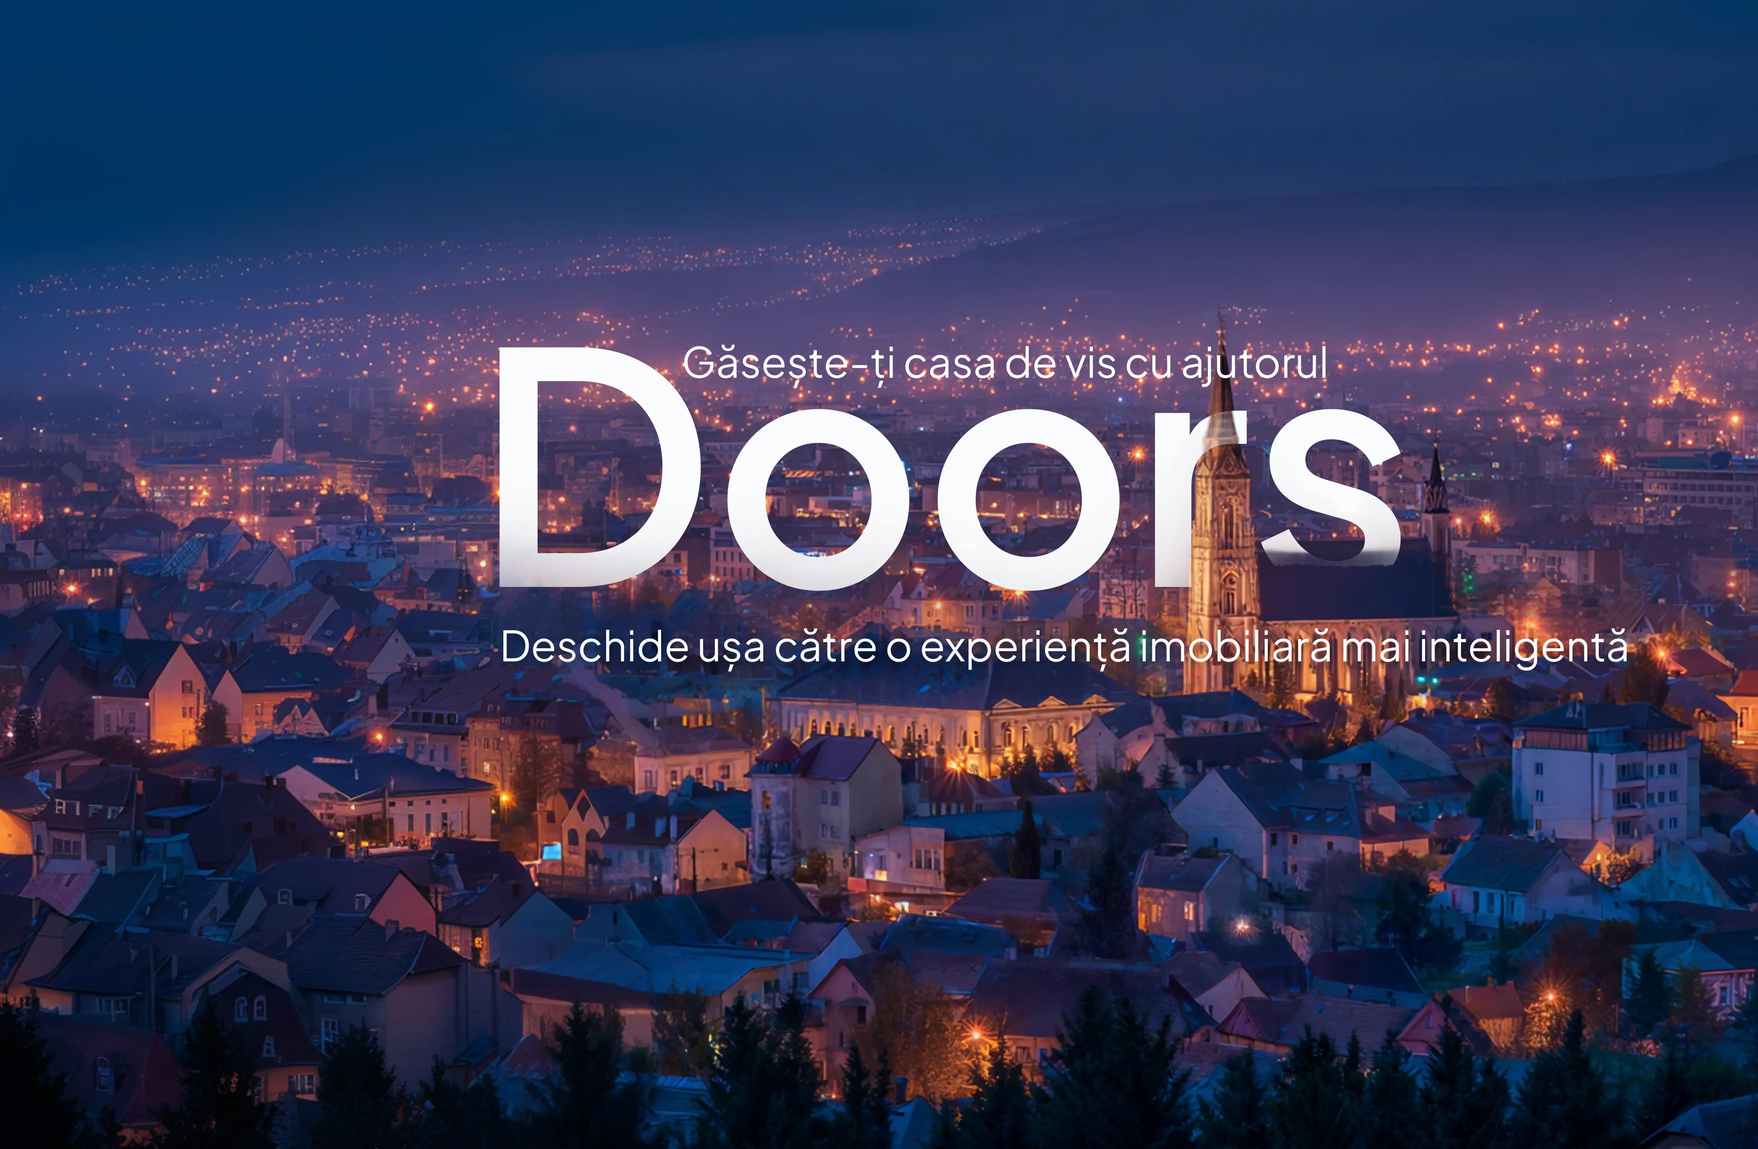
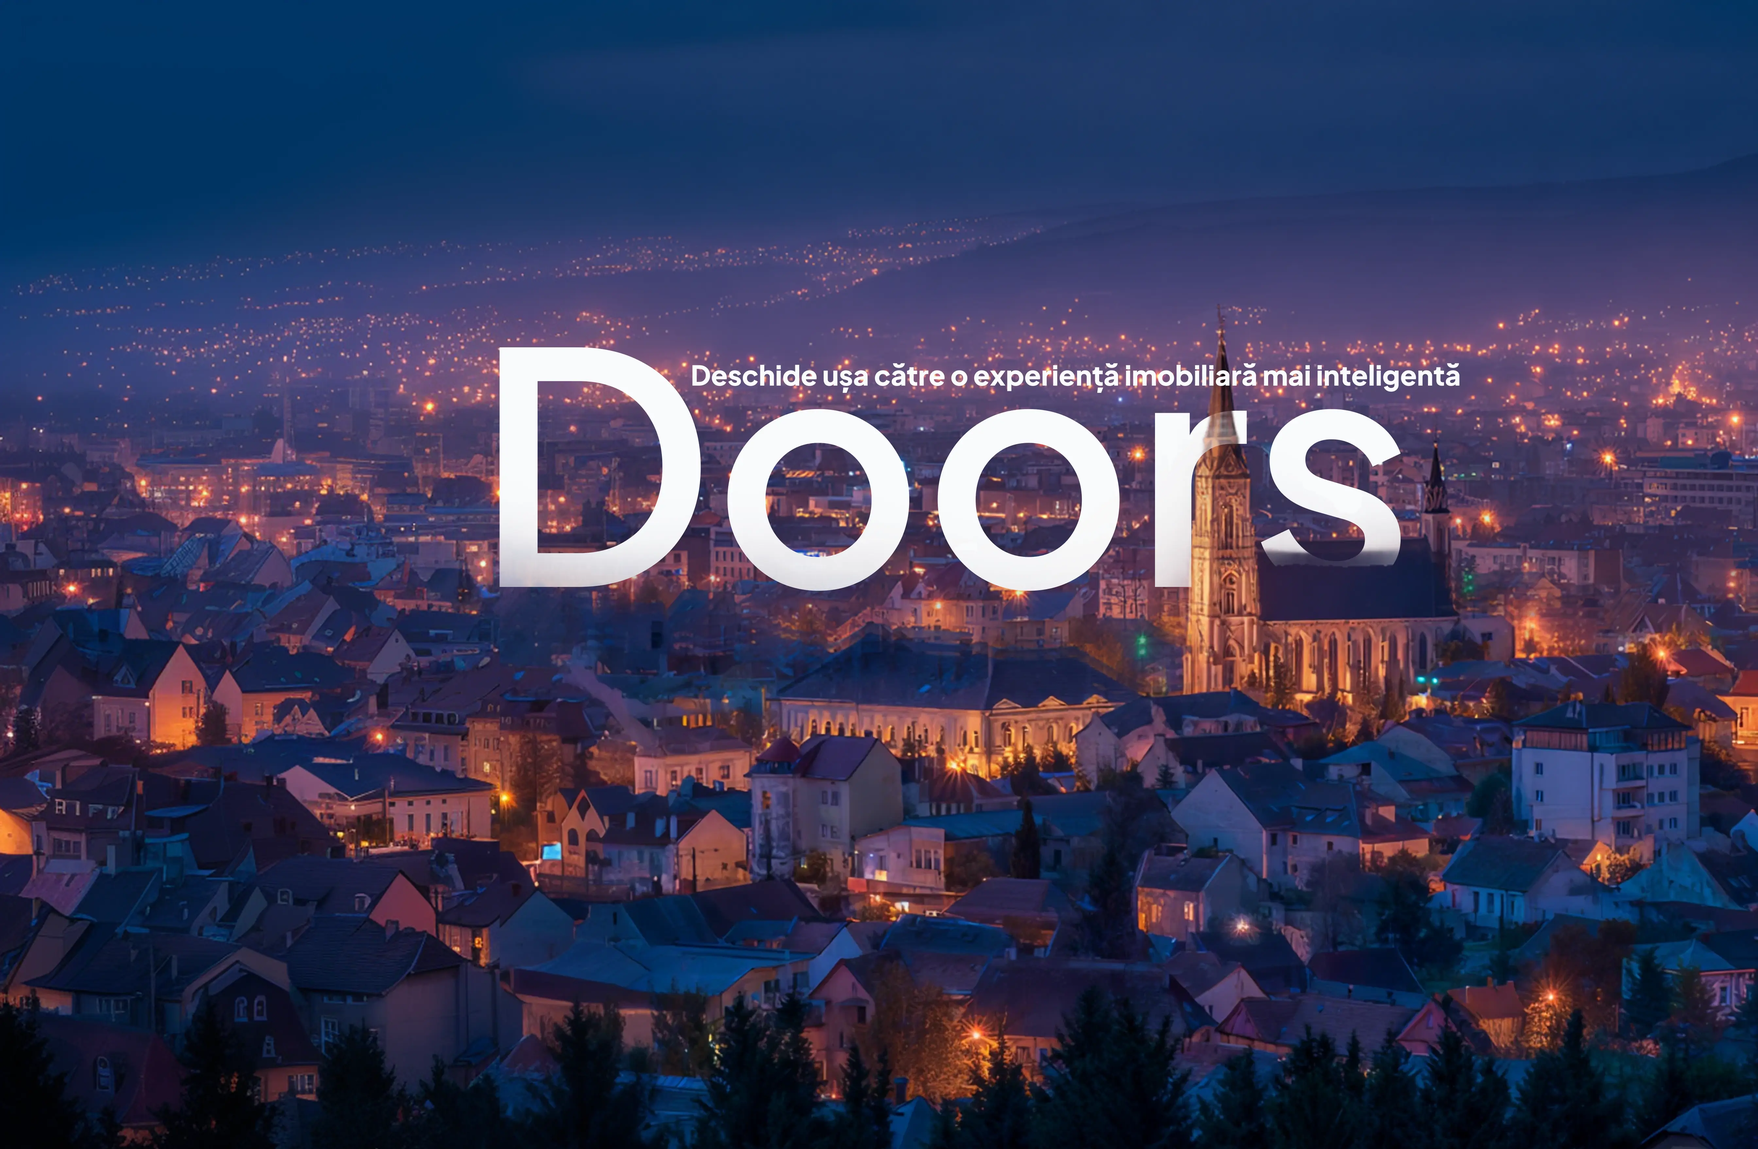
14 Nov 2025v1

Changed region(s): [[0.2812, 0.558, 0.9375, 0.589], [0.375, 0.31, 0.8438, 0.341]]

diff --git a/src/routes/index.tsx b/src/routes/index.tsx
@@ -1,23 +1,19 @@
 
-import { useQuery } from '@tanstack/react-query';
 import { createFileRoute, Link, useNavigate } from '@tanstack/react-router';
 import { Search, Bot, Zap, Eye, DollarSign, Home, Star, ArrowRight, Menu, X, Shield, Atom, Focus, CheckCircle, ChevronDown, Check } from 'lucide-react';
 import { useEffect, useState } from 'react';
 import { useTranslation } from 'react-i18next';
-import { useTRPC } from 'trpc/react';
 import { authClient } from 'utils/auth-client';
 import '../components/i18n';
-import i18n from '../components/i18n';
 import { TimelineLayout } from '@/components/ui/timeline-layout';
-import { Badge } from '@/components/ui/badge';
 import { BuyerBenefitsSection, BuyerDemoSection, BuyerPricingSection } from '@/components/pages/landing/buyerComponents';
 import { Header } from '@/components/pages/landing/headerLanding';
 import { createServerFn } from '@tanstack/react-start';
-import { PropertiesView } from '@/components/pages/propertiesView';
 import { ElevenLabsChatBotDemo } from '@/components/userAndAi/aiChatbot';
 import { usePropertyFilterStore } from './__root';
 import { useShallow } from 'zustand/react/shallow';
 import { PropertyAddView } from '@/components/pages/propertyAddView';
+import { Button } from '@/components/ui/button';
 
 
 export const Route = createFileRoute('/')({
@@ -81,31 +77,8 @@ function LandingPage() {
 
 
             <Header />
-            <HeroSection />
+            <HeroSection selectedAction={selectedAction} setSelectedAction={setSelectedAction} />
 
-            {/* Action Selector */}
-            <div className="flex flex-row justify-center mb-6 mt-6">
-                <div className="bg-white/10 backdrop-blur-sm rounded-full p-1 flex">
-                    <button
-                        onClick={() => setSelectedAction('buy')}
-                        className={`px-6 py-2 rounded-full text-sm font-medium transition-all ${selectedAction === 'buy'
-                            ? 'bg-white text-purple-900'
-                            : 'text-white hover:bg-white/10'
-                            }`}
-                    >
-                        {t('landing-page.hero.actionSelector.buy')}
-                    </button>
-                    <button
-                        onClick={() => setSelectedAction('sell')}
-                        className={`px-6 py-2 rounded-full text-sm font-medium transition-all ${selectedAction === 'sell'
-                            ? 'bg-white text-purple-900'
-                            : 'text-white hover:bg-white/10'
-                            }`}
-                    >
-                        {t('landing-page.hero.actionSelector.sell')}
-                    </button>
-                </div>
-            </div>
 
             {selectedAction === 'buy' ? <BuyerDemoSection token={token} /> : <SellerDemoSection token={token} />}
             {selectedAction === 'buy' ? <BuyerBenefitsSection /> : <SellerBenefitsSection />}
@@ -122,9 +95,14 @@ function LandingPage() {
 
 
 // Hero Section Component
-const HeroSection: React.FC<{}> = ({ }) => {
+const HeroSection = ({ setSelectedAction, selectedAction }: { setSelectedAction: (str: 'sell' | 'buy') => void, selectedAction: string }) => {
     const { data } = authClient.useSession();
     const { t } = useTranslation();
+
+    const { startConversation } = usePropertyFilterStore(useShallow(state => ({
+        startConversation: state.startConversation,
+    })))
+
 
     return (
         <section className="min-h-[95dvh] bg-gradient-to-br from-slate-900 via-purple-900 to-slate-900 flex items-center justify-end relative md:overflow-hidden h-fit">
@@ -135,23 +113,62 @@ const HeroSection: React.FC<{}> = ({ }) => {
             <div className='bg-gradient-to-r hidden md:block from-[#0B0014]/90 from-20% to-black/0 to-40% absolute z-30 inset-0'></div>
             <div className='bg-gradient-to-t from-[#0B0014] from-20% to-black/0 to-50% absolute z-30 inset-0'></div>
 
-            <div className="md:w-[47vw] absolute bottom-30 w-[95%] left-0 md:left-auto right-0 md:mt-0 md:top-[32vw] md:right-[11vw] mx-auto">
-                <div className="z-10 md:px-3 text-center md:hidden md:pl-5">
-                    <h1 className={`text-6xl font-semibold text-cente text-white mb-4`}>
-                        Doors
+            <div className="md:w-[47vw] absolute bottom-30 w-[95%] left-0 md:left-auto right-0 md:mt-0 md:top-[28vw] md:right-[11vw] mx-auto">
+                <div className="z-10 md:px-3 text-center md:hidden pr-2 md:pr-0 md:pl-5">
+                    <h1 className={`text-7xl font-extrabold text-cente text-white mb-4`}>
+                        {t('landing-page.hero.title.main')}
                     </h1>
-                    <span className={`text-4xl text-center font-light text-white mb-4`}>
-                        Deschide ușa către o experiență
+                    <span className={`text-3xl text-center font-light text-white mb-4`}>
+                        {t('landing-page.hero.title.subtitle1')}
                     </span>
-                    <span className="text-4xl md:text-[13rem]/15 font-semibold text-white mb-8 ml-2 md:ml-0">
-                        imobiliară mai inteligentă
+                    <span className="text-3xl md:text-[13rem]/15 font-semibold text-white mb-8 ml-2 md:ml-0">
+                        {t('landing-page.hero.title.subtitle2')}
                     </span>
                 </div>
                 <div className='z-40 relative md:absolute md:px-3 w-full'>
 
                     <p className="md:text-sm text-center md:text-start font-light mt-6 md:mt-0 mb-6 md:mb-4 mx-auto w-full text-[#C4CDD5]">
-                        Fără agenți. Fără comisioane. Doar tu, asistentul tău personal Doors și o platformă care face cumpărarea sau vânzarea locuinței mai rapidă, clară și complet fără stres.
+                        {t('landing-page.hero.description')}
                     </p>
+
+
+                    <div className='flex flex-col md:flex-row items-center justify-center gap-2 md:gap-6'>
+                        {/* Action Selector */}
+                        <div className="flex flex-col md:flex-row justify-center mb-6 mt-6">
+                            <div className="bg-white/10 backdrop-blur-sm rounded-full p-1 flex">
+                                <button
+                                    onClick={() => setSelectedAction('buy')}
+                                    className={`px-7 py-3 rounded-full text-sm font-medium transition-all ${selectedAction === 'buy'
+                                        ? 'bg-white text-purple-900'
+                                        : 'text-white hover:bg-white/10'
+                                        }`}
+                                >
+                                    {t('landing-page.hero.actionSelector.buy')}
+                                </button>
+                                <button
+                                    onClick={() => setSelectedAction('sell')}
+                                    className={`px-7 py-3 rounded-full text-sm font-medium transition-all ${selectedAction === 'sell'
+                                        ? 'bg-white text-purple-900'
+                                        : 'text-white hover:bg-white/10'
+                                        }`}
+                                >
+                                    {t('landing-page.hero.actionSelector.sell')}
+                                </button>
+                            </div>
+                        </div>
+
+                        <button
+                            onClick={() => {
+                                startConversation()
+                                return document.getElementById('demo')?.scrollIntoView({ behavior: 'smooth' })
+                            }}
+                            className="bg-gradient-to-br from-[#4C7CED] to-[#7B31DC] text-white text-base rounded-[6px] flex flex-row items-center justify-center gap-2 hover:to-[#6A2BC4]/50 hover:from-[#4C7CED]/50 cursor-pointer px-10 py-3"
+                        >
+                            {t('landing-page.hero.startConversation')}
+                        </button>
+
+                    </div>
+
 
                     {/* Micro Benefits */}
                     {/* <div className="mb-8 space-y-2"> */}
@@ -231,7 +248,7 @@ const SellerBenefitsSection = () => {
                     {/* Left side - Blue card */}
                     <div className="bg-gradient-to-br from-blue-500/50 to-purple-600/50 rounded-lg p-6 text-white">
                         <h2 className="text-3xl text-white mb-3">
-                            De ce <b>DOORS?</b>
+                            {t('landing-page.benefits.seller.whyDoorsTitle')}
 
                         </h2>
                         <h3 className="text-lg text-white mb-6">
@@ -296,8 +313,8 @@ const SellerDemoSection = ({ token }: { token: string }) => {
                         {t('landing-page.demo.seller.tryDemo.title')}
                     </h3>
                     <div className='flex md:hidden flex-row items-center w-fit mx-auto gap-6 rounded-lg p-2 bg-gradient-to-br from-green-500/20 to-blue-600/20 text-white'>
-                        <button onClick={() => setTab('agent')} className={`${tab === 'agent' ? 'bg-white text-green-900' : 'bg-gradient-to-br from-green-500/20 to-blue-600/20'} rounded-lg p-2 text-sm`}>Agent</button>
-                        <button onClick={() => setTab('results')} className={`${tab === 'results' ? 'bg-white text-green-900' : 'bg-gradient-to-br from-green-500/20 to-blue-600/20'} rounded-lg p-2 text-sm`}>Result</button>
+                        <button onClick={() => setTab('agent')} className={`${tab === 'agent' ? 'bg-white text-green-900' : 'bg-gradient-to-br from-green-500/20 to-blue-600/20'} rounded-lg p-2 text-sm`}>{t('landing-page.demo.tabs.agent')}</button>
+                        <button onClick={() => setTab('results')} className={`${tab === 'results' ? 'bg-white text-green-900' : 'bg-gradient-to-br from-green-500/20 to-blue-600/20'} rounded-lg p-2 text-sm`}>{t('landing-page.demo.tabs.result')}</button>
 
                     </div>
                     <div className="flex flex-row text-start gap-6 items-center h-[500px]">
@@ -335,7 +352,7 @@ export const ComparisonTable = () => {
         <div className='grid grid-cols-7 max-w-5xl mx-auto'>
             <div className=' md:p-6'>
                 <div className='h-[38px]'></div>
-                {['Comision', 'Comunicare', 'Anunțuri', 'Proces'].map((feature, index) => (
+                {((t('landing-page.pricing.comparison.features', { returnObjects: true }) as string[]) || []).map((feature, index) => (
                     <div key={index} className="flex items-center justify-end h-7 md:h-12 text-[10px] md:text-base">
                         {feature}
                     </div>
@@ -343,8 +360,8 @@ export const ComparisonTable = () => {
             </div>
 
             <div className='bg-white/5 rounded-l-2xl shadow-sm p-2 md:p-6 mx-1 md:mx-4 col-span-3'>
-                <h3 className='text-xs md:text-xl mb-1 md:mb-3'>Traditional</h3>
-                {['Pana la 5% (~10.000 €)', 'lentă & repetitivă', 'limitate / depășite', 'birocratie & presiune'].map((feature, index) => (
+                <h3 className='text-xs md:text-xl mb-1 md:mb-3'>{t('landing-page.pricing.comparison.traditional.title')}</h3>
+                {((t('landing-page.pricing.comparison.traditional.values', { returnObjects: true }) as string[]) || []).map((feature, index) => (
                     <div key={index} className="flex items-center justify-start h-7 md:h-12 text-[11px] md:text-base">
                         <div className="w-1 h-1 md:w-2 md:h-2 bg-green-400 rounded-full mr-3"></div>
                         {feature}
@@ -354,8 +371,8 @@ export const ComparisonTable = () => {
 
             <div className='bg-gradient-to-br to-[#120826] from-[#26408F]/60 mr-1 md:mr-4 rounded-2xl shadow-sm p-2 md:p-6 -m-4 col-span-3'>
 
-                <h3 className='text-xs md:text-xl mb-3 md:mb-3'>Doors</h3>
-                {['0€ pentru vânzători/ 19,99€ pentru cumpărători', 'directă & instantanee', 'actualizate în timp real, potrivite de AI', 'ghidat, simplu, transparent'].map((feature, index) => (
+                <h3 className='text-xs md:text-xl mb-3 md:mb-3'>{t('landing-page.pricing.comparison.doors.title')}</h3>
+                {((t('landing-page.pricing.comparison.doors.values', { returnObjects: true }) as string[]) || []).map((feature, index) => (
                     <div key={index} className="flex items-center justify-start h-7 md:h-12 text-[11px] md:text-base">
                         <div className="w-1 h-1 md:w-2 md:h-2 bg-purple-400 rounded-full mr-3"></div>
                         {feature}

diff --git a/src/components/pages/landing/buyerComponents.tsx b/src/components/pages/landing/buyerComponents.tsx
@@ -40,8 +40,8 @@ export const BuyerDemoSection = ({ token }: { token: string }) => {
                     </h3>
 
                     <div className='flex md:hidden flex-row items-center w-fit mx-auto gap-6 rounded-lg p-2 bg-gradient-to-br from-green-500/20 to-blue-600/20 text-white'>
-                        <button onClick={() => setTab('agent')} className={`${tab === 'agent' ? 'bg-white text-green-900' : 'bg-gradient-to-br from-green-500/20 to-blue-600/20'} rounded-lg p-2 text-sm`}>Agent</button>
-                        <button onClick={() => setTab('results')} className={`${tab === 'results' ? 'bg-white text-green-900' : 'bg-gradient-to-br from-green-500/20 to-blue-600/20'} rounded-lg p-2 text-sm`}>Results</button>
+                        <button onClick={() => setTab('agent')} className={`${tab === 'agent' ? 'bg-white text-green-900' : 'bg-gradient-to-br from-green-500/20 to-blue-600/20'} rounded-lg p-2 text-sm`}>{t('landing-page.demo.tabs.agent')}</button>
+                        <button onClick={() => setTab('results')} className={`${tab === 'results' ? 'bg-white text-green-900' : 'bg-gradient-to-br from-green-500/20 to-blue-600/20'} rounded-lg p-2 text-sm`}>{t('landing-page.demo.tabs.results')}</button>
                     </div>
 
                     <div className="flex flex-row text-start gap-6 items-center h-[500px]">
@@ -65,7 +65,7 @@ export const BuyerDemoSection = ({ token }: { token: string }) => {
                     params={data ? {} : { path: "sign-in" }}
                     className="inline-block bg-gradient-to-r mx-auto mt-5 text-center from-blue-500 to-purple-600 text-white px-8 py-3 rounded-md font-semibold text-lg hover:from-blue-600 hover:to-purple-700 transition-all transform hover:scale-105 shadow-2xl"
                 >
-                    Înregistrează-te acum
+                    Înregistrează-te Gratuit
                 </Link>
             </div>
         </section>
@@ -84,7 +84,7 @@ export const ProblemSolutionBuyer = () => {
         {/* Problem Statement */}
         <div className="text-center mb-24">
             <h2 className='text-3xl font-semibold text-white mb-6'>
-                Înainte de DOORS — Lupta cu piața imobiliară
+                {t('landing-page.benefits.buyer.beforeDoorsTitle')}
             </h2>
             <h3 className="text-lg text-white mb-6">
                 {t('landing-page.benefits.buyer.title')}
@@ -121,7 +121,7 @@ export const ProblemSolutionBuyer = () => {
                     {/* Left side - Blue card */}
                     <div className="bg-gradient-to-br from-blue-500/50 to-purple-600/50 rounded-lg p-6 text-white">
                         <h2 className="text-3xl text-white mb-3">
-                            De ce DOORS — Cumpără mai inteligent
+                            {t('landing-page.benefits.buyer.whyDoorsTitle')}
                         </h2>
                         <h3 className="text-lg text-white mb-6">
                             {t('landing-page.benefits.buyer.solutionTitle')}
@@ -159,7 +159,7 @@ export const FoundSomethingYouLikeSection: React.FC = () => {
     const services = Array.isArray(servicesData) ? servicesData as Array<{ icon: string, title: string, description: string, comingSoon?: boolean }> : [];
 
     return (
-        <section id="about" className="mt-20 max-w-5xl mx-auto">
+        <section id="about" className="mt-20 max-w-6xl mx-auto">
             <div className="mx-4 text-center">
                 {/* Subtitle Question */}
                 <p className="text-xl text-slate-300 mb-6">
@@ -177,7 +177,7 @@ export const FoundSomethingYouLikeSection: React.FC = () => {
                 </p>
 
                 {/* Services Grid */}
-                <div className="grid grid-cols-1 md:grid-cols-2 lg:grid-cols-4 gap-6 mb-12">
+                <div className="grid grid-cols-1 md:grid-cols-2 lg:grid-cols-5 gap-6 mb-12">
                     {services.map((service, index) => (
                         <div key={index} className="bg-[#120826] rounded-lg p-6 text-center relative">
                             {service.comingSoon && <Badge variant="destructive" className="absolute top-1.5 right-1.5">Coming Soon</Badge>}
@@ -259,9 +259,6 @@ export const BuyerPricingSection: React.FC = () => {
                 <p className="text-lg text-slate-300 max-w-4xl mx-auto mb-4">
                     {t('landing-page.pricing.buyer.subtitle')}
                 </p>
-                <p className="text-md text-slate-400 max-w-3xl mx-auto mb-6">
-                    {t('landing-page.pricing.buyer.guarantee')}
-                </p>
                 <p className="text-xl font-semibold text-blue-400">
                     {t('landing-page.pricing.buyer.highlights')}
                 </p>
@@ -289,7 +286,7 @@ export const BuyerPricingSection: React.FC = () => {
 export const BuyerBenefitsSection: React.FC = () => {
     return (
         <section id="benefits" className="py-16">
-            <div className="max-w-5xl mx-auto px-6">
+            <div className="max-w-6xl mx-auto px-6">
                 <ProblemSolutionBuyer />
                 <FromLookingToFound />
                 <FoundSomethingYouLikeSection />

diff --git a/src/components/userAndAi/chatComponent.tsx b/src/components/userAndAi/chatComponent.tsx
@@ -11,6 +11,7 @@ import { Message, MessageContent } from "../ai-elements/message";
 import { Response } from "../ai-elements/response";
 import { Actions } from "../ai-elements/actions";
 import { Loader } from "../ai-elements/loader";
+import { useTranslation } from "react-i18next";
 
 
 
@@ -20,6 +21,7 @@ export const ChatComponent = ({ messages, sendMessage, sendUserActivity, status,
     sendUserActivity: () => void,
     status: Status, startConversation: () => void, endConversation: () => void
 }) => {
+    const { t } = useTranslation();
     const [input, setInput] = useState('');
 
     const { aiChatbotOpen, setAiChatbotOpen } = usePopoversOpenStore(useShallow(state => ({
@@ -50,9 +52,9 @@ export const ChatComponent = ({ messages, sendMessage, sendUserActivity, status,
 
                 <div className='flex flex-row items-start justify-between border-b border-[#404040 rounded-b-lg'>
                     <div className='flex flex-row items-center px-3 pb-5 gap-2 '>
-                        <img src={'/icons/robot.svg'} className="w-[35px] h-[35px] object-contain bg-[#525252] rounded-full p-2 object-center" />
+                        <img src={'/doors-logo.png'} className="w-[35px] h-[35px] object-contain bg-[#525252]/10 rounded-full p-0 object-center" />
                         <div className="flex flex-col mr-3">
-                            <p >AI Assistant</p>
+                            <p >{t('ai-chatbot.assistant')}</p>
                             <p className="text-xs text-[#a3a3a3]">Online</p>
                         </div>
                     </div>
@@ -76,8 +78,8 @@ export const ChatComponent = ({ messages, sendMessage, sendUserActivity, status,
                 <Conversation className="h-full no-scrollbar">
                     <ConversationContent className='bg-transparent p-0 min-h-full flex flex-col'>
                         {messages.length === 0 && <div className='flex flex-col min-h-full grow-1 flex-1 items-center justify-center'>
-                            <img src={'/icons/robot.svg'} className="w-[100px] h-[100px] object-contain bg-[#525252] text-white opacity-40 rounded-full p-2 object-center" />
-                            <p className='text-gray-400 text-center mt-3'>Ai Assistent Not Started</p>
+                            <img src={'/doors-logo.png'} className="w-[100px] h-[100px] object-contain bg-[#525252]/10 text-white rounded-full p-0 object-center" />
+                            <p className='text-gray-400 text-center mt-3'>{t('ai-chatbot.assistantNotStarted')}</p>
                         </div>}
                         {messages.length > 0 && messages.map((message, i) => (
                             <div key={message.id.toString()}>
@@ -160,7 +162,7 @@ export const ChatComponent = ({ messages, sendMessage, sendUserActivity, status,
                                 variant={'default'}
                                 className='w-full cursor-pointer'
                             >
-                                <span className="">Start Conversation</span>
+                                <span className="">{t('ai-chatbot.startConversation')}</span>
                                 <Play size={16} />
                             </PromptInputButton>
                         </>}

diff --git a/src/routes/app/properties/add.tsx b/src/routes/app/properties/add.tsx
@@ -36,7 +36,7 @@ function PropertyAdd() {
 
         </div>
 
-        <PropertyAddView partialProperty={partialProperty} setPartialProperty={setPartialProperty} />
+        <PropertyAddView />
     </div>
 }
 
